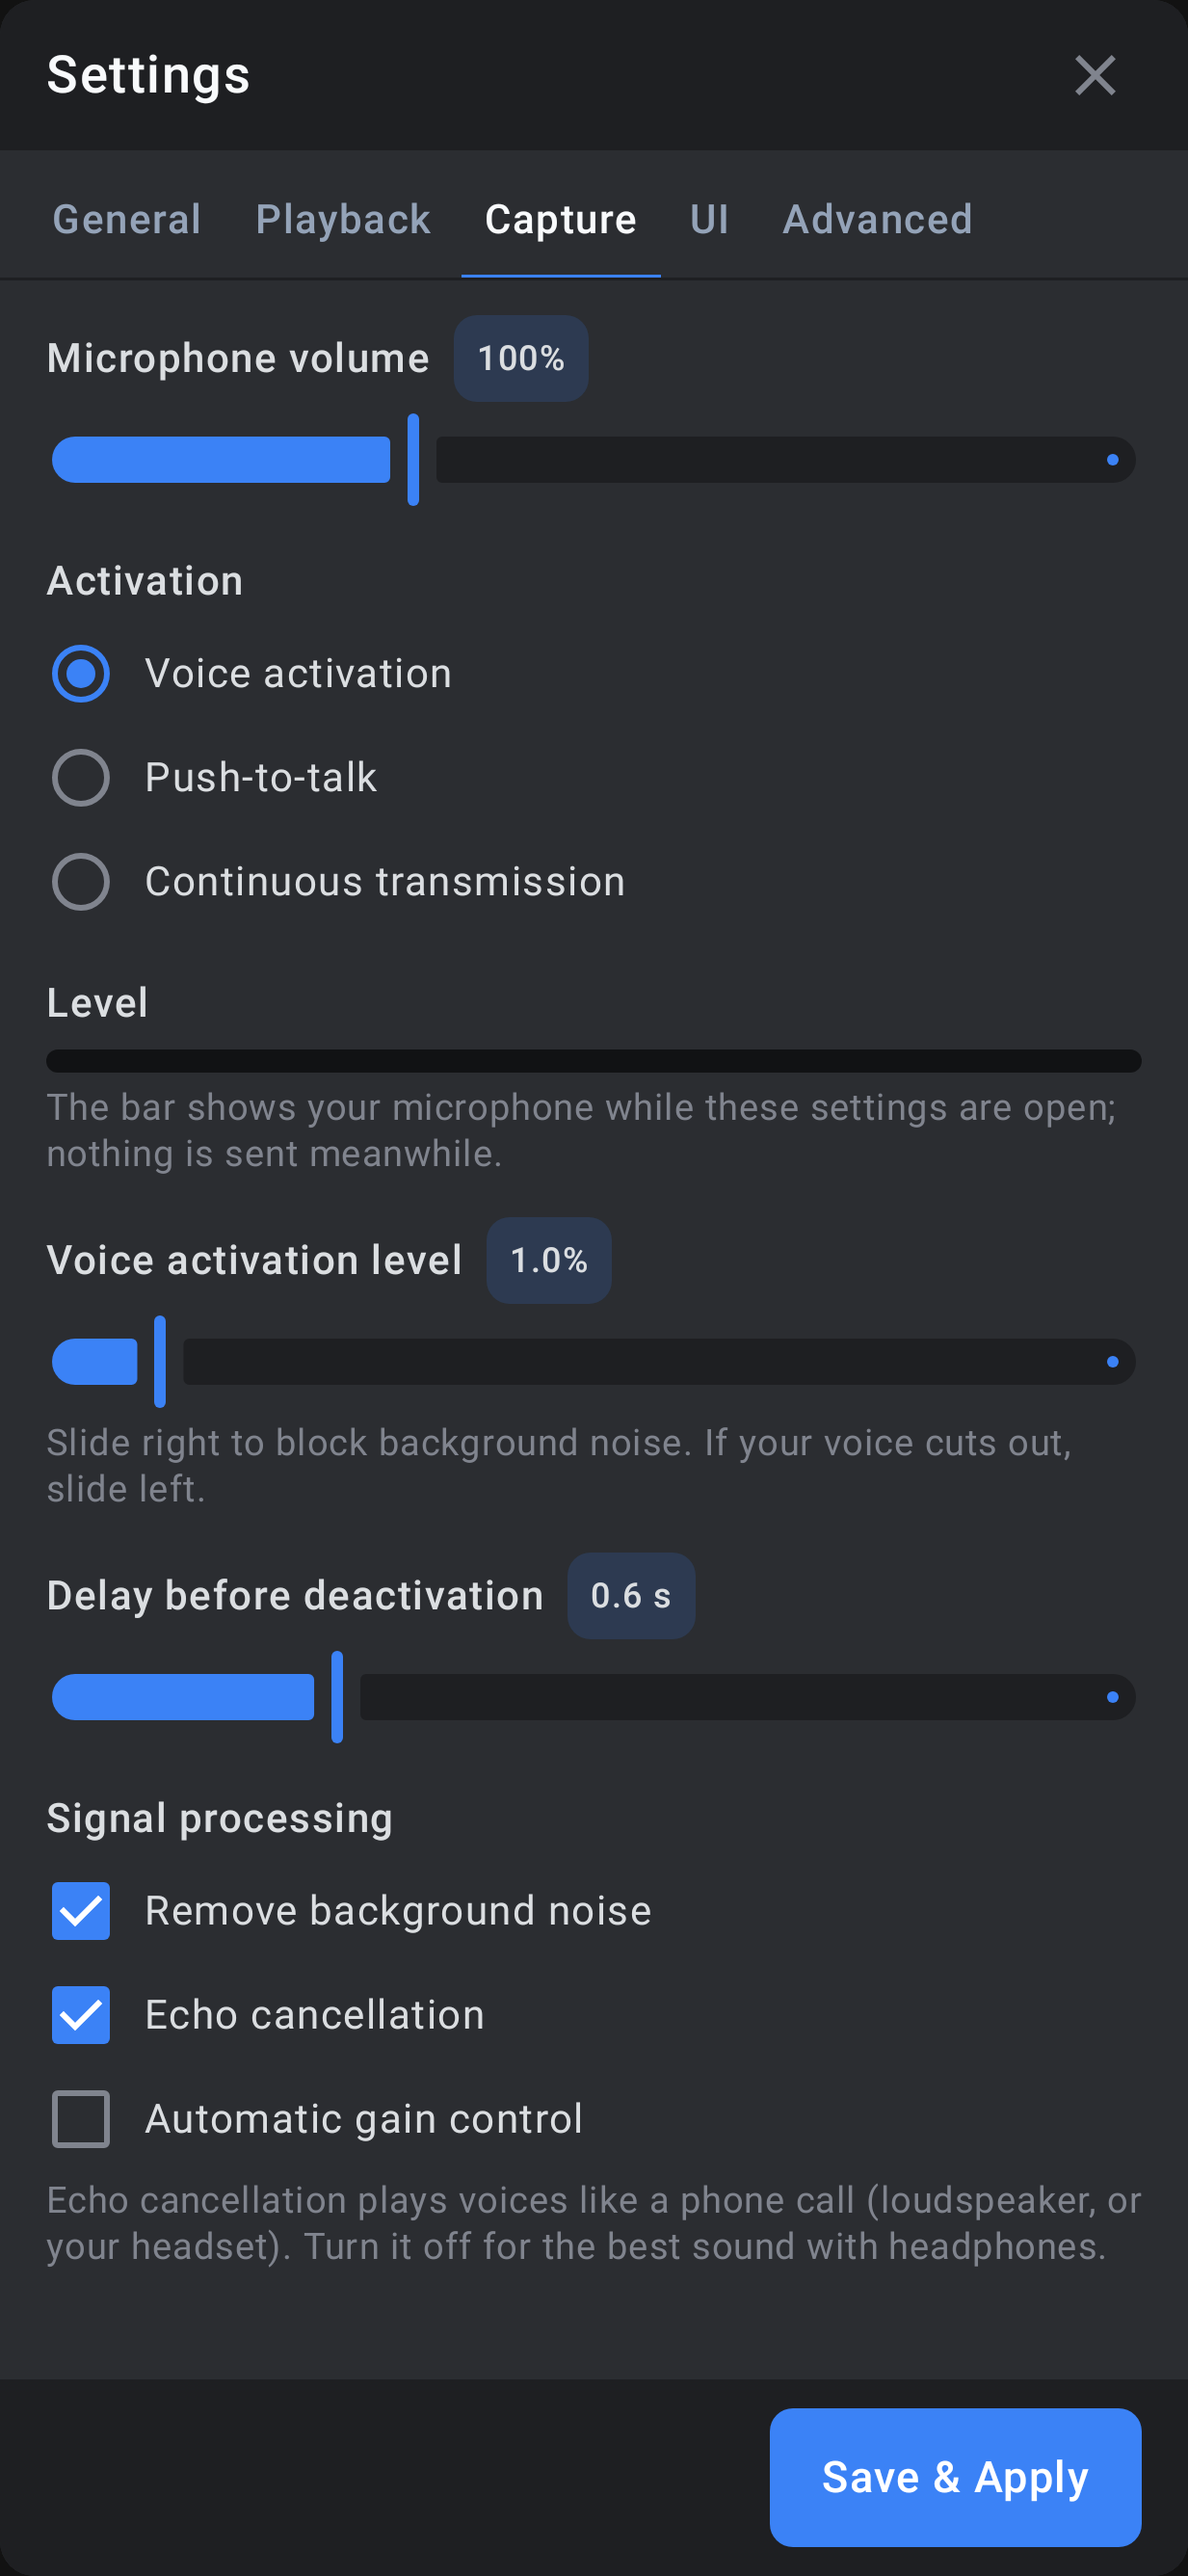
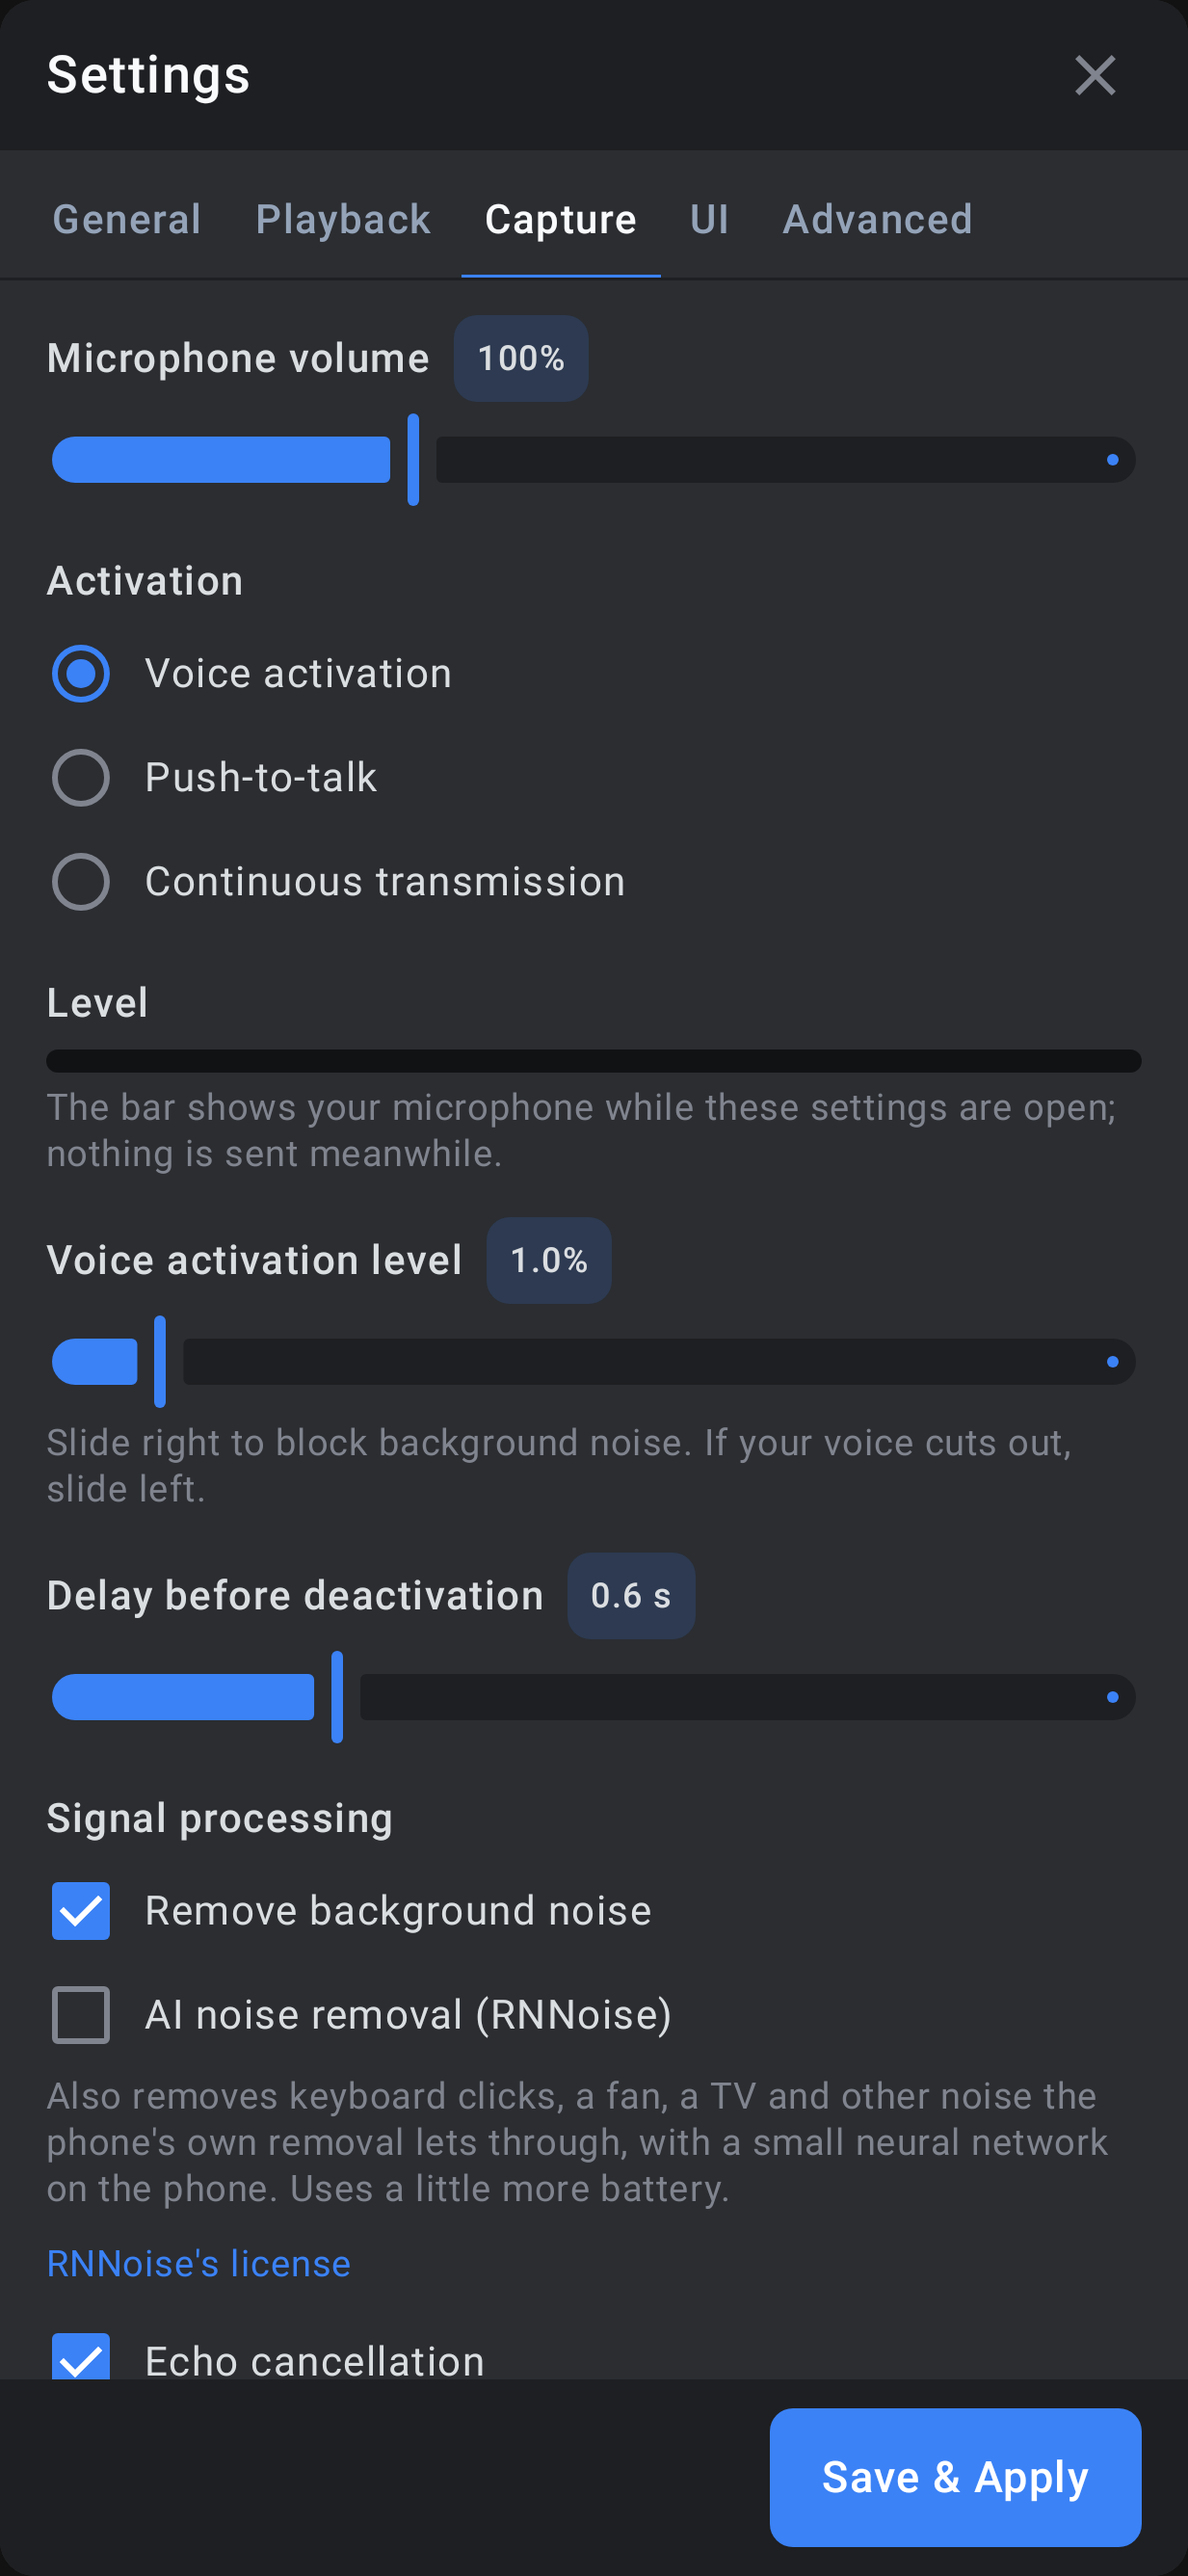
AI noise removal with RNNoise
Settings > Capture has AI noise removal (RNNoise), off by default: Xiph's
RNNoise cleans the microphone's sound before it's encoded, also removing
noise the phone's own noise removal lets through (keyboard clicks, a fan,
a TV). It's turned on and off while talking, and the log says how long it
takes per 20 ms on the phone.

RNNoise 0.2 is downloaded from its GitHub release when building and
checked against its SHA-256, then built with CMake: the repository holds
only the CMake file, the JNI bridge and a stand-in for the one Opus header
the release leaves out. Its BSD license ships in the app and opens from
the setting. The build image gets the NDK and CMake.

Changed region(s): [[0.0308, 0.7452, 0.9246, 0.9315], [0.8938, 0.8694, 0.9246, 0.9005]]

diff --git a/app/src/main/kotlin/io/github/korppujauho/pocketts/ui/SettingsDialog.kt b/app/src/main/kotlin/io/github/korppujauho/pocketts/ui/SettingsDialog.kt
@@ -10,6 +10,7 @@ import androidx.compose.foundation.background
 import androidx.compose.foundation.horizontalScroll
 import androidx.compose.foundation.clickable
 import androidx.compose.foundation.layout.Arrangement
+import androidx.compose.foundation.layout.heightIn
 import androidx.compose.foundation.layout.Box
 import androidx.compose.foundation.layout.Column
 import androidx.compose.foundation.layout.ColumnScope
@@ -533,6 +534,15 @@ private fun Capture(v: VoiceSettings, actions: SettingsActions, onChange: (Voice
     }
     Group(stringResource(R.string.capture_processing)) {
         Check(stringResource(R.string.capture_noise), v.noiseSuppression) { onChange(v.copy(noiseSuppression = it)) }
+        Check(stringResource(R.string.capture_ai_noise), v.aiNoiseRemoval) { onChange(v.copy(aiNoiseRemoval = it)) }
+        Desc(stringResource(R.string.capture_ai_noise_desc))
+        // RNNoise's license (BSD: its notice goes with the app)
+        var license by remember { mutableStateOf(false) }
+        Text(
+            stringResource(R.string.capture_ai_noise_license), color = Ts.accent, fontSize = 12.5.sp,
+            modifier = Modifier.clickable { license = true }.padding(vertical = 2.dp),
+        )
+        if (license) LicenseDialog("licenses/rnnoise.txt", "RNNoise") { license = false }
         Check(stringResource(R.string.capture_echo), v.echoCancellation) { onChange(v.copy(echoCancellation = it)) }
         Check(stringResource(R.string.capture_agc), v.autoGainControl) { onChange(v.copy(autoGainControl = it)) }
         Desc(stringResource(R.string.capture_echo_desc))
@@ -563,5 +573,21 @@ private fun LevelMeter(actions: SettingsActions, threshold: Float?) {
             val x = with(density) { (width * (threshold / 0.1f).coerceIn(0f, 1f)).toDp() }
             Box(Modifier.offset(x = x).width(2.dp).fillMaxSize().background(Ts.red))
         }
+    }
+}
+
+/** A library's license, from the app's own files (assets/licenses). */
+@Composable
+private fun LicenseDialog(asset: String, name: String, onDismiss: () -> Unit) {
+    val context = androidx.compose.ui.platform.LocalContext.current
+    val text = remember(asset) { runCatching { context.assets.open(asset).bufferedReader().use { it.readText() } }.getOrDefault("") }
+    TsDialog(
+        onDismiss = onDismiss, title = name,
+        buttons = { PillButton(stringResource(R.string.close), PillKind.PRIMARY, onClick = onDismiss) },
+    ) {
+        Text(
+            text, color = Ts.muted, fontSize = 11.sp, lineHeight = 14.sp,
+            modifier = Modifier.heightIn(max = 420.dp).verticalScroll(rememberScrollState()),
+        )
     }
 }

diff --git a/app/src/main/kotlin/io/github/korppujauho/pocketts/MicSender.kt b/app/src/main/kotlin/io/github/korppujauho/pocketts/MicSender.kt
@@ -94,6 +94,10 @@ class MicSender(
             if (AutomaticGainControl.isAvailable()) AutomaticGainControl.create(rec.audioSessionId)?.apply { enabled = s.autoGainControl } else null,
         )
         val encoder = OpusEncoder()
+        var rnnoise: Rnnoise? = null // AI noise removal, while it's on in the settings
+        var rnnoiseOn = false // ... the setting as last seen
+        var rnnoiseFrames = 0
+        var rnnoiseNanos = 0L
         val pcm = ShortArray(FRAME)
         var lastSpeech = 0L
         var sending = false
@@ -109,6 +113,20 @@ class MicSender(
                     got += n
                 }
                 val cfg = settings()
+                // AI noise removal first, on the microphone's own sound (turned on and off as the setting changes)
+                if (cfg.aiNoiseRemoval != rnnoiseOn) {
+                    rnnoiseOn = cfg.aiNoiseRemoval
+                    rnnoise?.close()
+                    rnnoise = if (rnnoiseOn) Rnnoise.open() else null
+                    AppLog.log("AI noise removal " + if (rnnoise != null) "on" else "off")
+                }
+                rnnoise?.let {
+                    val start = System.nanoTime()
+                    it.process(pcm)
+                    // Once after 10 s: how much of each 20 ms it takes on this phone
+                    rnnoiseNanos += System.nanoTime() - start
+                    if (++rnnoiseFrames == 500) AppLog.log("AI noise removal takes %.2f ms per 20 ms".format(rnnoiseNanos / 500 / 1e6))
+                }
                 // Microphone volume, then the level
                 var sum = 0.0
                 for (i in pcm.indices) {
@@ -157,6 +175,7 @@ class MicSender(
             effects.forEach { it.release() }
             rec.release()
             encoder.close()
+            rnnoise?.close()
         }
     }
 }

diff --git a/app/src/main/kotlin/io/github/korppujauho/pocketts/VoiceSettings.kt b/app/src/main/kotlin/io/github/korppujauho/pocketts/VoiceSettings.kt
@@ -10,6 +10,7 @@ data class VoiceSettings(
     val voiceVolumeDb: Int = 0, // everyone's voice, -20 to +12 dB
     val micVolume: Float = 1f, // the microphone, 0 - 3
     val noiseSuppression: Boolean = true,
+    val aiNoiseRemoval: Boolean = false, // RNNoise, on the phone: removes noise the phone's own removal lets through
     val echoCancellation: Boolean = true,
     val autoGainControl: Boolean = false,
     val floatingPtt: Boolean = true, // the round push-to-talk button
@@ -49,6 +50,7 @@ data class VoiceSettings(
                 voiceVolumeDb = p.getInt("voiceVolumeDb", d.voiceVolumeDb),
                 micVolume = p.getFloat("micVolume", d.micVolume),
                 noiseSuppression = p.getBoolean("noiseSuppression", d.noiseSuppression),
+                aiNoiseRemoval = p.getBoolean("aiNoiseRemoval", d.aiNoiseRemoval),
                 echoCancellation = p.getBoolean("echoCancellation", d.echoCancellation),
                 autoGainControl = p.getBoolean("autoGainControl", d.autoGainControl),
                 floatingPtt = p.getBoolean("floatingPtt", d.floatingPtt),
@@ -87,6 +89,7 @@ data class VoiceSettings(
             .putInt("voiceVolumeDb", voiceVolumeDb)
             .putFloat("micVolume", micVolume)
             .putBoolean("noiseSuppression", noiseSuppression)
+            .putBoolean("aiNoiseRemoval", aiNoiseRemoval)
             .putBoolean("echoCancellation", echoCancellation)
             .putBoolean("autoGainControl", autoGainControl)
             .putBoolean("floatingPtt", floatingPtt)

diff --git a/app/src/main/kotlin/io/github/korppujauho/pocketts/Rnnoise.kt b/app/src/main/kotlin/io/github/korppujauho/pocketts/Rnnoise.kt
@@ -1,0 +1,36 @@
+package io.github.korppujauho.pocketts
+
+/**
+ * RNNoise, Xiph's AI noise removal (built from its release with the app, see src/main/cpp): cleans the microphone's
+ * sound, 20 ms at a time. One per microphone; [close] it when done.
+ */
+class Rnnoise private constructor(private var state: Long) : AutoCloseable {
+
+    /** Cleans [pcm] (48 kHz mono, 960 samples) in place; gives the chance it's speech, 0 - 1. */
+    fun process(pcm: ShortArray): Float = if (state != 0L) process(state, pcm) else 0f
+
+    override fun close() {
+        if (state != 0L) destroy(state)
+        state = 0L
+    }
+
+    companion object {
+        /** Whether the library loaded (it always should; if not, the microphone goes on without it). */
+        private val available: Boolean by lazy {
+            try {
+                System.loadLibrary("pocketts_rnnoise")
+                true
+            } catch (e: Throwable) {
+                AppLog.log("AI noise removal isn't available: $e")
+                false
+            }
+        }
+
+        /** A new one, or null when the library can't be used. */
+        fun open(): Rnnoise? = if (available) create().takeIf { it != 0L }?.let { Rnnoise(it) } else null
+
+        @JvmStatic private external fun create(): Long
+        @JvmStatic private external fun destroy(state: Long)
+        @JvmStatic private external fun process(state: Long, pcm: ShortArray): Float
+    }
+}

diff --git a/app/src/main/cpp/rnnoise_jni.c b/app/src/main/cpp/rnnoise_jni.c
@@ -1,0 +1,41 @@
+// The bridge between Kotlin (io.github.korppujauho.pocketts.Rnnoise) and RNNoise: one state per microphone, fed
+// 20 ms at a time (960 samples at 48 kHz), which is two of RNNoise's 10 ms frames.
+#include <jni.h>
+#include <math.h>
+#include <stdint.h>
+#include "rnnoise.h"
+
+#define FRAME 480
+
+JNIEXPORT jlong JNICALL
+Java_io_github_korppujauho_pocketts_Rnnoise_create(JNIEnv *env, jclass cls) {
+    return (jlong) (intptr_t) rnnoise_create(NULL); // its built-in model
+}
+
+JNIEXPORT void JNICALL
+Java_io_github_korppujauho_pocketts_Rnnoise_destroy(JNIEnv *env, jclass cls, jlong state) {
+    rnnoise_destroy((DenoiseState *) (intptr_t) state);
+}
+
+// Cleans the samples in place (whole 10 ms frames); returns the highest chance of speech among them, 0 - 1
+JNIEXPORT jfloat JNICALL
+Java_io_github_korppujauho_pocketts_Rnnoise_process(JNIEnv *env, jclass cls, jlong state, jshortArray pcm) {
+    DenoiseState *st = (DenoiseState *) (intptr_t) state;
+    jsize n = (*env)->GetArrayLength(env, pcm);
+    jshort frame[FRAME];
+    float in[FRAME], out[FRAME];
+    float speech = 0;
+    for (jsize at = 0; at + FRAME <= n; at += FRAME) {
+        (*env)->GetShortArrayRegion(env, pcm, at, FRAME, frame);
+        // RNNoise takes the samples at their 16-bit size, as floats
+        for (int i = 0; i < FRAME; i++) in[i] = frame[i];
+        float p = rnnoise_process_frame(st, out, in);
+        if (p > speech) speech = p;
+        for (int i = 0; i < FRAME; i++) {
+            float v = out[i];
+            frame[i] = (jshort) lrintf(v > 32767.f ? 32767.f : v < -32768.f ? -32768.f : v);
+        }
+        (*env)->SetShortArrayRegion(env, pcm, at, FRAME, frame);
+    }
+    return speech;
+}

diff --git a/app/src/main/cpp/compat/os_support.h b/app/src/main/cpp/compat/os_support.h
@@ -1,0 +1,15 @@
+// RNNoise 0.2's vector code (vec.h, vec_neon.h) includes Opus's os_support.h, which RNNoise's release doesn't ship.
+// This stands in for it with the little that code uses.
+#ifndef OS_SUPPORT_H
+#define OS_SUPPORT_H
+
+#include <string.h>
+
+#ifndef OPUS_INLINE
+#define OPUS_INLINE inline
+#endif
+
+#define OPUS_CLEAR(dst, n) (memset((dst), 0, (n) * sizeof(*(dst))))
+#define OPUS_COPY(dst, src, n) (memcpy((dst), (src), (n) * sizeof(*(dst))))
+
+#endif
